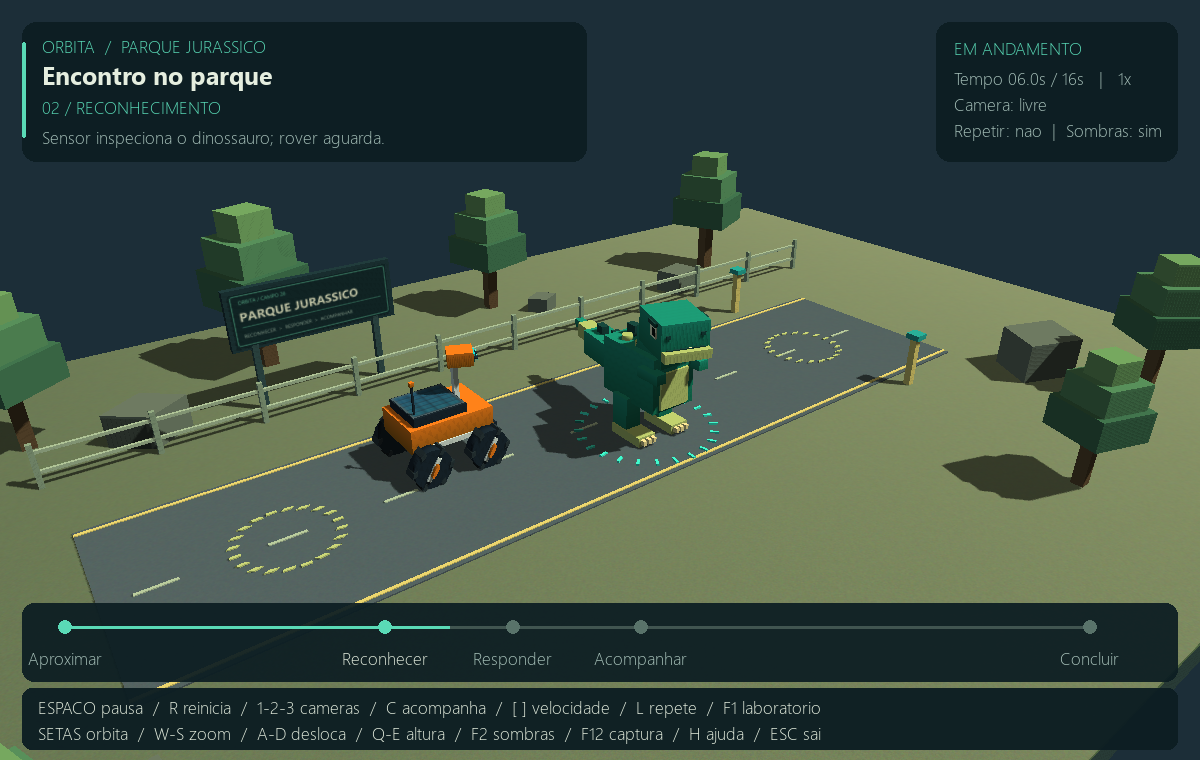
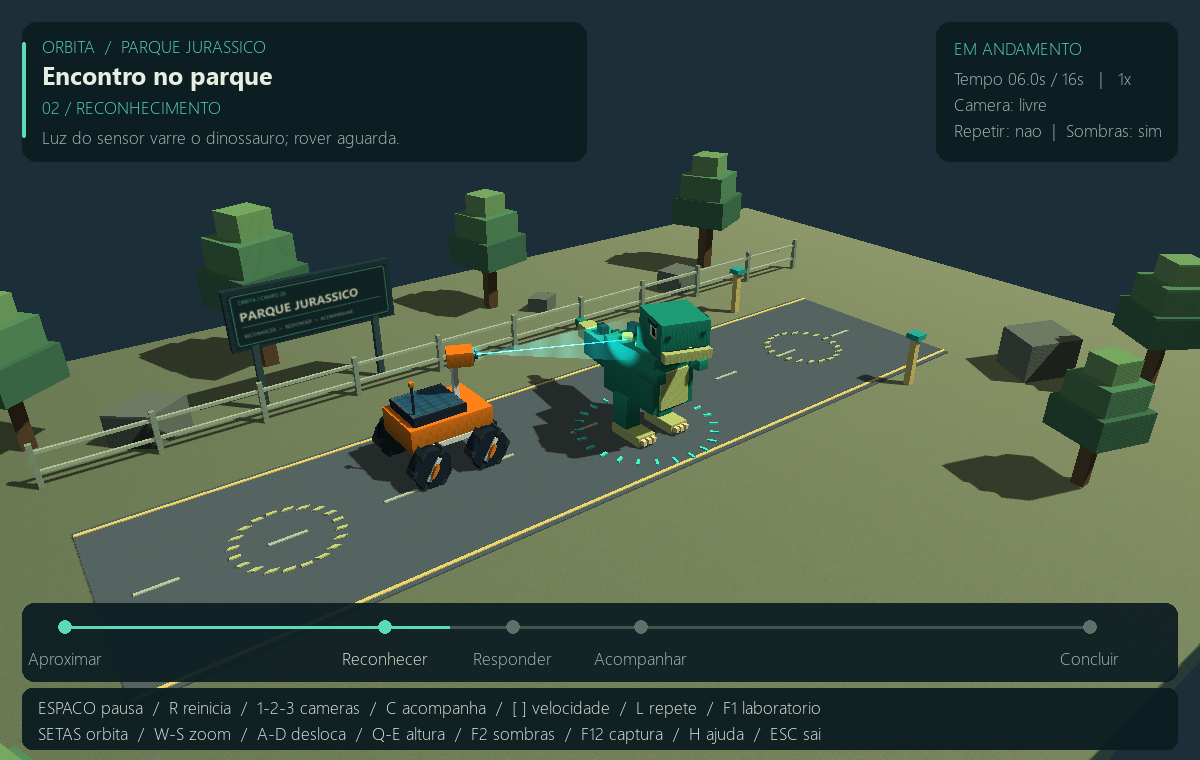
1.4

Changed region(s): [[0.4008, 0.4237, 0.555, 0.4842], [0.0617, 0.1816, 0.3083, 0.2118]]

diff --git a/scanner.py b/scanner.py
@@ -1,0 +1,115 @@
+"""Feixe emissivo e iluminação de reconhecimento presos ao sensor do rover."""
+from pathlib import Path
+from math import sin,pi,tan
+import numpy as np
+import OpenGL.GL as GL
+from py3d.core.matrix import Matrix
+from py3d.core_ext.scene import Scene
+from py3d.core_ext.mesh import Mesh
+from py3d.core_ext.renderer import Renderer
+from py3d.geometry.geometry import Geometry
+from py3d.geometry.cylinder import CylinderGeometry
+from py3d.geometry.rectangle import RectangleGeometry
+from py3d.material.material import Material
+
+SHADERS=Path(__file__).resolve().parent/'shaders'
+
+def ray_distance(origin,direction,low,high,limit=4.8):
+    enter=np.zeros(len(low));leave=np.full(len(low),limit);valid=np.ones(len(low),dtype=bool)
+    for axis in range(3):
+        if abs(direction[axis])<1e-9:
+            valid &= (origin[axis]>=low[:,axis]) & (origin[axis]<=high[:,axis])
+        else:
+            a=(low[:,axis]-origin[axis])/direction[axis]
+            b=(high[:,axis]-origin[axis])/direction[axis]
+            enter=np.maximum(enter,np.minimum(a,b));leave=np.minimum(leave,np.maximum(a,b))
+    valid &= leave>=enter
+    return min(limit,float(enter[valid].min())) if valid.any() else limit
+
+def beam_matrix(origin,direction,length,radius):
+    direction=np.asarray(direction,dtype=float)
+    norm=np.linalg.norm(direction)
+    if norm<1e-9 or length<=0 or radius<=0:
+        raise ValueError('O feixe precisa de direcao, comprimento e raio validos.')
+    forward=direction/norm
+    reference=np.array([0.,1.,0.]) if abs(forward[1])<.95 else np.array([1.,0.,0.])
+    right=np.cross(reference,forward);right/=np.linalg.norm(right)
+    up=np.cross(forward,right)
+    matrix=np.eye(4)
+    matrix[:3,0]=right*radius;matrix[:3,1]=up*radius
+    matrix[:3,2]=forward*length;matrix[:3,3]=origin
+    return matrix
+
+class ScanMaterial(Material):
+    def __init__(self,mode):
+        super().__init__((SHADERS/'scanner.vert').read_text(),(SHADERS/'scanner.frag').read_text())
+        self.add_uniform('vec3','glowColor',[.12,.85,1.0])
+        self.add_uniform('float','intensity',0.)
+        self.add_uniform('float','effectTime',0.)
+        self.add_uniform('int','beamMode',mode)
+        self.locate_uniforms()
+
+    def update_render_settings(self):
+        GL.glEnable(GL.GL_BLEND)
+        GL.glBlendFunc(GL.GL_SRC_ALPHA,GL.GL_ONE)
+        GL.glDepthMask(GL.GL_FALSE)
+        GL.glDisable(GL.GL_CULL_FACE)
+        GL.glPolygonMode(GL.GL_FRONT_AND_BACK,GL.GL_FILL)
+
+class Scanner:
+    def __init__(self,sensor,scene,target):
+        self.sensor=sensor
+        self.target=target
+        self.scene=Scene()
+        self.renderer=Renderer()
+        self.materials={id(n.material):n.material for n in scene.descendant_list if isinstance(n,Mesh)}
+        cone=Geometry();positions=[];uv=[]
+        for i in range(40):
+            a=i*2*pi/40;b=(i+1)*2*pi/40
+            positions.extend([[0,0,0],[np.cos(a),np.sin(a),1],[np.cos(b),np.sin(b),1]])
+            uv.extend([[.5,0],[i/40,1],[(i+1)/40,1]])
+        cone.add_attribute('vec3','vertexPosition',positions);cone.add_attribute('vec2','vertexUV',uv)
+        self.cone=Mesh(cone,ScanMaterial(0))
+        core=CylinderGeometry(radius=1,height=1,radial_segments=12)
+        core.apply_matrix(Matrix.make_translation(0,0,.5)@Matrix.make_rotation_x(pi/2))
+        self.core=Mesh(core,ScanMaterial(1))
+        self.halo=Mesh(RectangleGeometry(),ScanMaterial(2))
+        self.meshes=(self.cone,self.core,self.halo)
+        for mesh in self.meshes:
+            mesh.visible=False;mesh.cast_shadow=False;self.scene.add(mesh)
+        self.active=False
+        self.intensity=0.
+        self.origin=np.zeros(3);self.direction=np.array([1.,0,0])
+
+    def update(self,sim,gray=False):
+        self.active=sim.stage==1
+        self.intensity=sin(pi*sim.elapsed/2)**.5 if self.active else 0.
+        for mesh in self.meshes:
+            mesh.visible=self.active and self.intensity>.001
+            mesh.material.uniform_dict['intensity'].data=self.intensity
+            mesh.material.uniform_dict['effectTime'].data=sim.time
+            mesh.material.uniform_dict['glowColor'].data=([.85,.85,.85] if gray else [.12,.85,1.0])
+        matrix=self.sensor.global_matrix
+        self.origin=(matrix@np.array([.455,0,0,1]))[:3]
+        self.direction=matrix[:3,0]/np.linalg.norm(matrix[:3,0])
+        low,high=self.target.boxes()
+        length=max(.05,ray_distance(self.origin,self.direction,low,high))
+        self.length=length
+        self.cone.local_matrix=beam_matrix(self.origin,self.direction,length,length*tan(.14))
+        self.core.local_matrix=beam_matrix(self.origin,self.direction,length,.012)
+        for material in self.materials.values():
+            uniforms=material.uniform_dict
+            uniforms['scannerActive'].data=self.intensity
+            uniforms['scannerPosition'].data=self.origin
+            uniforms['scannerDirection'].data=self.direction
+            uniforms['scannerColor'].data=([.85,.85,.85] if gray else [.18,.82,1.0])
+
+    def render(self,camera):
+        if not self.active or self.intensity<=.001:return
+        # Halo faces the viewer, but its center remains at the physical lens.
+        self.halo.local_matrix=Matrix.make_look_at(self.origin,camera.global_position)@np.diag([.32,.32,.32,1])
+        try:
+            self.renderer.render(self.scene,camera,clear_color=False,clear_depth=False)
+        finally:
+            GL.glDepthMask(GL.GL_TRUE)
+            GL.glBlendFunc(GL.GL_SRC_ALPHA,GL.GL_ONE_MINUS_SRC_ALPHA)

diff --git a/main.py b/main.py
@@ -19,12 +19,13 @@ from simulation import Simulation
 from appearance import Appearance
 from geometry_tools import apply_gradient
 from collision import CollisionWorld
+from scanner import Scanner
 
 ROOT=Path(__file__).resolve().parent
 LABELS=('01 / APROXIMACAO', '02 / RECONHECIMENTO', '03 / RESPOSTA',
         '04 / ACOMPANHAMENTO', '05 / MISSAO CONCLUIDA')
 DESCRIPTIONS=('Rover avanca ate a distancia de reconhecimento.',
- 'Sensor inspeciona o dinossauro; rover aguarda.',
+ 'Luz do sensor varre o dinossauro; rover aguarda.',
  'Dinossauro responde a chegada e muda de direcao.',
  'Virada concluida: rover acompanha a distancia constante.',
  'Encontro finalizado. Pressione R para repetir.')
@@ -39,7 +40,7 @@ class Application:
         pygame.display.gl_set_attribute(pygame.GL_DEPTH_SIZE,24)
         self.size=(1200,760)
         pygame.display.set_mode(self.size,pygame.OPENGL|pygame.DOUBLEBUF)
-        pygame.display.set_caption('ORBITA / Parque Jurassico 1.3 | Colisoes ativas | Espaco: pausa')
+        pygame.display.set_caption('ORBITA / Parque Jurassico 1.4 | Sensor luminoso | Espaco: pausa')
         self.renderer=Renderer([.11,.18,.22])
         self.scene=Scene()
         self.camera=Camera(angle_of_view=48, aspect_ratio=self.size[0]/self.size[1],far=100)
@@ -57,6 +58,7 @@ class Application:
         self.renderer.shadow_object._bias=.0018
         self.environment()
         self.appearance=Appearance(self.scene,[self.rover,self.dino]+[mesh for mesh,_ in self.scan_ring])
+        self.scanner=Scanner(self.sensor,self.scene,self.collisions.dinosaur)
         self.azimuth=-.65; self.elevation=.46; self.radius=17
         self.target=[-.6,1,0]
         self.camera_mode='LIVRE'
@@ -218,7 +220,9 @@ class Application:
             self.sim.update(dt*self.speed,self.can_advance)
             self.controls(real_dt)
             self.apply_pose()
+            self.scanner.update(self.sim,self.appearance.gray)
             self.renderer.render(self.scene,self.camera)
+            self.scanner.render(self.camera)
             self.hud.draw(self.sim,self.show_help,self.speed,self.camera_mode,self.loop,self.shadows,self.appearance)
             if self.pending_capture:
                 self.capture(out/'captura.png'); self.pending_capture=False
@@ -229,7 +233,7 @@ class Application:
             pygame.display.flip()
             frame+=1
             if self.args.validate and frame>=1000:
-                report={'versao':'1.3','frames':frame,'estado_final':self.sim.name,
+                report={'versao':'1.4','frames':frame,'estado_final':self.sim.name,
                     'colisoes_evitadas':self.sim.prevented_collisions,
                     'verificacoes_colisao':self.collisions.checks,
                     'opengl':GL.glGetString(GL.GL_VERSION).decode(),

diff --git a/tests/check_scanner.py b/tests/check_scanner.py
@@ -1,0 +1,42 @@
+"""Valida feixe, iluminação sobre a superfície, origem no sensor e pausa."""
+import sys,json
+from pathlib import Path
+from types import SimpleNamespace
+sys.path.insert(0,str(Path(__file__).resolve().parents[1]))
+import numpy as np
+import pygame
+import OpenGL.GL as GL
+from main import Application,ROOT
+
+app=Application(SimpleNamespace(validate=False))
+def pixels():return np.frombuffer(GL.glReadPixels(0,0,*app.size,GL.GL_RGB,GL.GL_UNSIGNED_BYTE),dtype=np.uint8).copy()
+def difference(a,b):return int(np.count_nonzero(np.max(abs(a.astype(int)-b.astype(int)).reshape(-1,3),axis=1)>3))
+try:
+    app.sim.update(6);app.apply_pose();app.controls(0)
+    app.renderer.render(app.scene,app.camera);baseline=pixels()
+    app.scanner.update(app.sim)
+    assert app.scanner.active and app.scanner.intensity>.99
+    expected=(app.sensor.global_matrix@np.array([.455,0,0,1]))[:3]
+    np.testing.assert_allclose(app.scanner.origin,expected)
+    app.renderer.render(app.scene,app.camera);spot=pixels()
+    spot_diff=difference(baseline,spot);assert spot_diff>50,spot_diff
+    app.scanner.render(app.camera);beam=pixels()
+    beam_diff=difference(spot,beam);assert beam_diff>100,beam_diff
+    assert GL.glGetBooleanv(GL.GL_DEPTH_WRITEMASK)
+    app.hud.draw(app.sim,True,appearance=app.appearance)
+    app.capture(ROOT/'evidencias/13_reconhecimento_luminoso.png')
+    app.sim.paused=True;time=app.sim.time;origin=app.scanner.origin.copy()
+    app.sim.update(10,app.can_advance);app.scanner.update(app.sim)
+    assert app.sim.time==time
+    np.testing.assert_allclose(app.scanner.origin,origin)
+    for instant in (0,4,8,12,16):
+        app.sim.reset();app.sim.update(instant);app.apply_pose();app.scanner.update(app.sim)
+        assert not app.scanner.active and all(not m.visible for m in app.scanner.meshes)
+        assert all(m.uniform_dict['scannerActive'].data==0 for m in app.scanner.materials.values())
+    assert GL.glGetError()==GL.GL_NO_ERROR
+    report={'pixels_illuminated':spot_diff,'pixels_changed_by_beam':beam_diff,
+        'origin_tracks_sensor':True,'pause_preserves_scan':True,'only_recognition_stage':True,
+        'depth_write_restored':True,'gl_error':0}
+    (ROOT/'evidencias/validacao_scanner.json').write_text(json.dumps(report,indent=2),encoding='utf-8')
+    print(report)
+finally:pygame.quit()

diff --git a/tests/test_scanner.py b/tests/test_scanner.py
@@ -1,0 +1,19 @@
+import unittest
+import numpy as np
+from scanner import beam_matrix,ray_distance
+
+class ScannerTests(unittest.TestCase):
+    def test_beam_origin_axis_and_tip(self):
+        origin=np.array([1.,2,3]);direction=np.array([1.,0,0])
+        matrix=beam_matrix(origin,direction,4,.5)
+        np.testing.assert_allclose((matrix@np.array([0,0,0,1]))[:3],origin)
+        np.testing.assert_allclose((matrix@np.array([0,0,1,1]))[:3],origin+4*direction)
+
+    def test_parallel_axis_and_range_limit(self):
+        low=np.array([[3.,-1,-1],[1,4,4]]);high=low+2
+        self.assertAlmostEqual(ray_distance(np.zeros(3),np.array([1.,0,0]),low,high),3)
+        self.assertAlmostEqual(ray_distance(np.zeros(3),np.array([-1.,0,0]),low,high),4.8)
+
+    def test_vertical_beam_and_invalid_direction(self):
+        self.assertTrue(np.isfinite(beam_matrix([0,0,0],[0,1,0],2,.2)).all())
+        with self.assertRaises(ValueError):beam_matrix([0,0,0],[0,0,0],2,.2)

diff --git a/py3d/material/phong.py b/py3d/material/phong.py
@@ -21,6 +21,10 @@ class PhongMaterial(LightedMaterial):
         self.add_uniform("vec2", "offsetUV", [0.0, 0.0])
         self.add_uniform("float", "focusFactor", 1.0)
         self.add_uniform("bool", "grayScale", False)
+        self.add_uniform("float", "scannerActive", 0.0)
+        self.add_uniform("vec3", "scannerPosition", [0,0,0])
+        self.add_uniform("vec3", "scannerDirection", [1,0,0])
+        self.add_uniform("vec3", "scannerColor", [.18,.82,1.0])
 
         if texture is None:
             self.add_uniform("bool", "useTexture", False)

diff --git a/SCANNER.md b/SCANNER.md
@@ -1,0 +1,32 @@
+# Reconhecimento luminoso — versão 1.4
+
+Durante o reconhecimento (5–7 segundos), a lente do rover emite um feixe azul-ciano na direção em que o sensor está apontando. O efeito acompanha a hierarquia real do sensor, cresce/desaparece suavemente e ilumina a superfície atingida do dinossauro. O anel de reconhecimento e a reação da cabeça permanecem sincronizados. A luz se desliga antes da virada e do acompanhamento.
+
+## Implementação
+
+- `scanner.py`: `Scanner.update` extrai a origem da lente e o eixo +X da matriz global do sensor. Não usa uma posição fixa no cenário.
+- `ray_distance` limita o raio central pela primeira AABB das peças do dinossauro que ele encontra, ou pelo alcance máximo de 4,8 unidades. É uma aproximação conservadora da superfície, não uma interseção exata de triângulos.
+- A representação visível combina um cone translúcido de triângulos, um núcleo fino e um halo na lente. O cone tem raio proporcional ao alcance e acompanha a varredura.
+- `shaders/scanner.vert` recebe `vertexPosition`, `vertexUV` e matrizes de modelo/câmera/projeção. O fragment shader usa `glowColor`, `intensity`, `effectTime` e `beamMode` para os três componentes emissivos.
+- A passagem do feixe ocorre depois da cena opaca, com teste de profundidade ativo, mistura aditiva e escrita de profundidade desativada. O estado de escrita e o blending normal são restaurados em `finally`, antes de desenhar o HUD ou o quadro seguinte. Assim o feixe não apaga o conteúdo nem atravessa visualmente superfícies na direção da câmera.
+- `shaders/phong.frag` acrescenta uma contribuição de luz focal suave com os uniforms `scannerActive`, `scannerPosition`, `scannerDirection` e `scannerColor`. A contribuição usa ângulo, distância e normal da superfície: não é apenas uma linha colorida sobre a imagem.
+- As malhas ópticas ficam em uma cena separada: não entram nos colisores dos personagens nem projetam sombras. A luz direcional e seu shadow mapping continuam funcionando.
+- Toda a intensidade e a animação interna do feixe usam o tempo da simulação; pausar congela o reconhecimento sem impedir a câmera. O modo em cinza também ajusta a cor da emissão.
+
+## Escopo
+
+É um efeito estilizado, com geometria translúcida e iluminação focal local. Não simula dispersão física de luz no ar, bloom ou uma nova sombra de spotlight. A limitação pelo alvo usa as mesmas caixas conservadoras das peças; objetos estáticos não recebem uma nova passagem de sombras para o scanner. O efeito não altera a distância de 3,8 unidades nem a proteção contra colisões da versão 1.3.
+
+## Validação
+
+`tests/test_scanner.py` verifica origem/eixo/extremidade, direção vertical, rejeição de direção inválida e limite por raio/caixa. `tests/check_scanner.py` executa a GPU real e confere:
+
+- influência da luz sobre a superfície, separada da representação visível do feixe;
+- origem seguindo a lente e emissão ativa apenas no reconhecimento;
+- pausa preservando o tempo e a origem;
+- restauração da escrita de profundidade;
+- ausência de erros OpenGL.
+
+Resultados: `evidencias/validacao_scanner.json`. Captura real: `evidencias/13_reconhecimento_luminoso.png`.
+
+Para observar com calma, use `[` para reduzir a velocidade ou Espaço para pausar no reconhecimento. Nenhum novo controle é necessário para ligar a luz: ela acompanha automaticamente a coreografia.

diff --git a/EXPLICACAO_TECNICA.md b/EXPLICACAO_TECNICA.md
@@ -113,3 +113,11 @@ No modo de foco, o shader aproxima a cor do ambiente de sua intensidade RGB pond
 A distância anterior permitia que a cauda atravessasse o rover durante a rotação. A nova coreografia mantém 3,8 unidades longitudinais e o sensor acompanha a nova posição. O controle usa caixas compostas obtidas das geometrias reais e transformadas pelas matrizes de cada parte. O detector considera as três dimensões e margem de 0,10 unidade; não confunde uma peça alta com contato no chão.
 
 O callback `Application.can_advance` é usado no loop normal. `Simulation.update` verifica subpassos de até 1/120 s, rejeita poses inseguras e restaura atomicamente tempo, estado, rodas e articulações. As caixas conservadoras não fazem uma simulação de forças. Consulte `COLISOES.md` para detalhes, limites e testes de regressão da cauda.
+
+## Luz de reconhecimento da versão 1.4
+
+`Scanner` calcula a origem na lente a partir da matriz global do sensor e usa seu eixo +X para orientar cone, núcleo e contribuição focal do material Phong. O efeito é ligado somente no estado RECONHECIMENTO. A intensidade usa uma curva senoidal suave e o tempo da simulação, preservando a pausa.
+
+Além dos uniforms existentes, o Phong usa `scannerActive` (intensidade), `scannerPosition` e `scannerDirection` (origem/direção em mundo) e `scannerColor`. O termo adicional depende da normal, distância e abertura angular, e é aplicado antes dos modos de foco/cinza. A luz direcional mantém seu shadow mapping; não há nova passagem de sombra focal.
+
+O volume luminoso usa os shaders `scanner.vert` e `scanner.frag`, com atributos de posição/UV, matrizes M/V/P e uniforms de cor, intensidade, tempo e modo do efeito. Mistura aditiva com teste de profundidade mantém a luz visível sem substituir as superfícies. A escrita de profundidade é restaurada após a passagem. Detalhes e limites estão em `SCANNER.md`.

diff --git a/FONTES_FRAMEWORK.md b/FONTES_FRAMEWORK.md
@@ -43,3 +43,7 @@ Foram mantidos apenas os módulos Python transitivamente utilizados e os inicial
 ## Adaptações da versão 1.3
 
 A pedido do usuário, a partir de uma captura de interpenetração, foram criados `collision.py`, testes de colisão e a integração do callback na simulação e na interface. A lógica foi elaborada com apoio do Codex e não é atribuída ao framework original. Usa posições das geometrias e matrizes de hierarquia já presentes no framework. Não foram acrescentadas dependências.
+
+## Adaptações da versão 1.4
+
+`scanner.py`, shaders `scanner.*`, testes e contribuição focal nos shaders Phong foram elaborados para o reconhecimento luminoso, com apoio do Codex. O efeito reutiliza geometria, materiais, matrizes, cena e renderizador do framework; não é atribuído aos exemplos originais. Não acrescenta bibliotecas.

diff --git a/ROTEIRO_APRESENTACAO.md b/ROTEIRO_APRESENTACAO.md
@@ -43,3 +43,5 @@ Antes da aula: preencher nomes e contribuições no README; instalar as dependê
 ## Pergunta sobre a correção de colisões
 
 Por que apenas comparar os centros não bastava? A cauda ocupa um volume que muda durante a virada. O programa agora compara caixas das partes transformadas, incluindo cauda e sensor, e rejeita cada subpasso inseguro. A distância de 3,8 unidades evita contatos no percurso normal; o detector continua ativo como proteção. Não há quique ou forças: a resposta é interromper o movimento preservando a última pose segura.
+
+Na etapa de reconhecimento, apontar a luz saindo da lente e a iluminação na superfície do dinossauro. Pausar para girar a câmera e mostrar a profundidade do feixe. Explicar que é um efeito emissivo mais contribuição focal no Phong, mantendo a sombra direcional existente.
